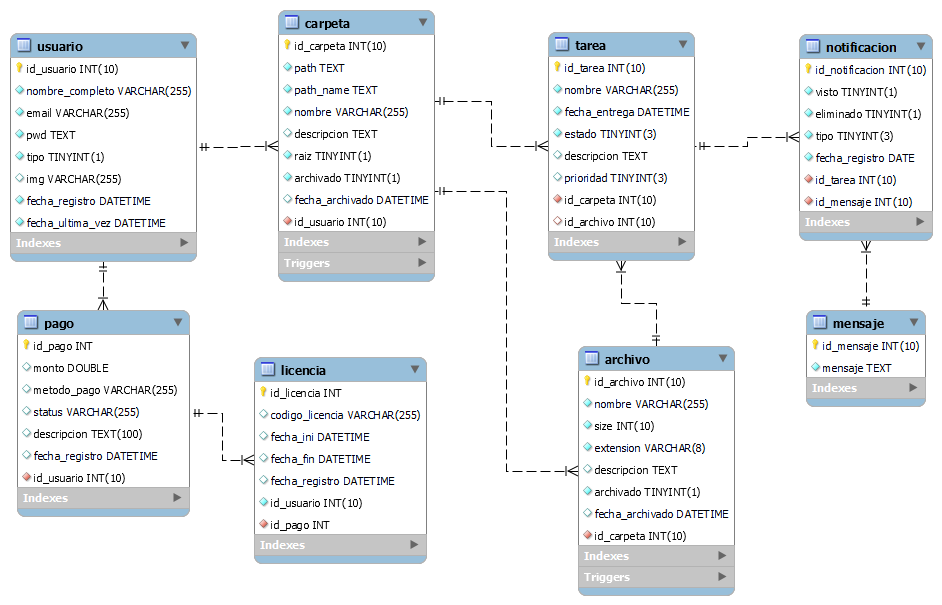
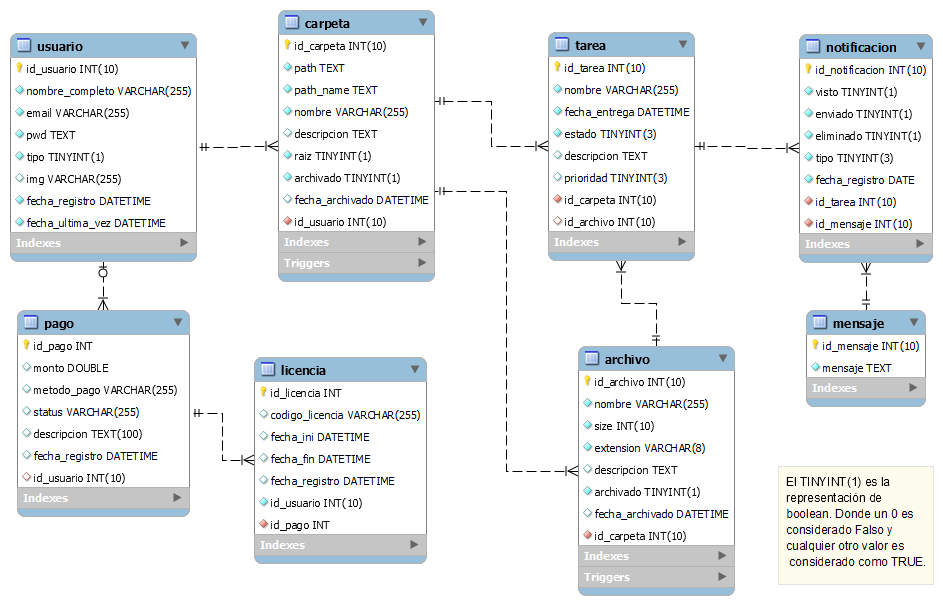
enviando notificacion por email modo test

diff --git a/mvc/controller/NotificationController.php b/mvc/controller/NotificationController.php
@@ -84,6 +84,60 @@
 			//exit();
 	    }
 
+		public static function sendNotificationEmail() 
+	    {   
+			$res = NotificationModel::getNotificationForEmail();
+			
+			if ($res) {
+				foreach ($res as $key => $value) {
+					self::sendMail($value); 
+					echo "<br>";
+				}
+			}else{
+				setMsg( "error","No hay notificacion por enviar.",  __CLASS__."->".__FUNCTION__ , (new Exception(""))->getLine() ); 
+			}
+				
+			print_r( json_encode(getMsg()) );
+			exit();
+	    }
+
+		private static function sendMail($data){
+			$to = $data["email"]; 
+			$subject = "OrganizApp"; 
+			$body = ' 
+				<html> 
+				<head> 
+				<title>OrganizApp</title> 
+				</head> 
+				<body> 
+				<h1>OranizApp</h1> 
+				<h2><p>
+						'.$data["mensaje"].', <strong> nombre: </strong> '.$data["nombre"].',
+						<strong>ruta: </strong>'.$data["path_name"].'
+					</p>
+				</h2> 
+				<br>
+				<p> 
+					<b>Puedes acceder desde el siguiente link, primero inicia sesion :</b>
+					<a href="https://myproyecto.com/organizapp/home#'.$data["path_name"].'" >https://myproyecto.com/organizapp/home#'.$data["path_name"].'</a>
+				</p> 
+				<br>
+				<p> No responda a este email ya que fue generado automaticamente.</p> 
+				</body> 
+				</html> 
+			'; 
+			// Para enviar un correo HTML, debe establecerse la cabecera Content-type
+			$headers  = 'MIME-Version: 1.0' . "\r\n";
+			$headers .= 'Content-type: text/html; charset=iso-8859-1' . "\r\n";
+			if(mail($to,$subject,$body,$headers)){
+				NotificationModel::updateNotificationSentEmail($data["id_notificacion"]);
+				echo 'We have sent you a message with subject "OrganizApp"';
+			}
+			else 
+				echo 'An error occurred while sending the Email';
+
+		}
+
 		public  function seenNotification($idNotification) 
 	    {   
 			$res = $this->NotificationModel->seenNotification( $idNotification );

diff --git a/mvc/model/NotificationModel.php b/mvc/model/NotificationModel.php
@@ -117,6 +117,57 @@ class NotificationModel extends DB
 		}
 	}
 
+	public static function updateNotificationSentEmail($id){
+		try {
+
+			$DB = DB::conn();
+			
+			$query = "UPDATE notificacion SET enviado = 1 WHERE id_notificacion = ?";
+			$queryDB = $DB->prepare($query);
+			$queryDB->execute([$id]);
+		
+			if ($queryDB->rowCount()>0)
+				return true;
+			else
+				return false;
+			
+		} catch (PDOException $e) {
+			setMsg( "error", $e->getMessage(), __CLASS__."->".__FUNCTION__ , (new Exception(""))->getLine() );
+			print_r( json_encode(getMsg()));
+			exit();
+		}
+	}
+
+	public static function getNotificationForEmail(){
+		try {
+
+			$DB = DB::conn();
+			
+			$query = "SELECT carpeta.path_name, tarea.nombre, tarea.estado,tarea.prioridad, email, id_notificacion, mensaje FROM usuario
+							INNER JOIN carpeta
+							INNER JOIN tarea
+							INNER JOIN notificacion
+							INNER JOIN mensaje
+							ON usuario.id_usuario = carpeta.id_usuario AND 
+							carpeta.id_carpeta = tarea.id_carpeta AND 
+							tarea.id_tarea = notificacion.id_tarea AND 
+							notificacion.id_mensaje = mensaje.id_mensaje
+							WHERE visto = 0 AND eliminado = 0 AND enviado = 0 ";
+			$queryDB = $DB->prepare($query);
+			$queryDB->execute();
+		
+			if ($queryDB->rowCount()>0)
+				return $queryDB->fetchAll(PDO::FETCH_ASSOC);
+			else
+				return false;
+			
+		} catch (PDOException $e) {
+			setMsg( "error", $e->getMessage(), __CLASS__."->".__FUNCTION__ , (new Exception(""))->getLine() );
+			print_r( json_encode(getMsg()));
+			exit();
+		}
+	}
+
 	public function getNotification($idUsuario, $range){
 		try {
 			$range = explode("::",$range);

diff --git a/mvc/view/notification.php b/mvc/view/notification.php
@@ -1,13 +1,19 @@
 <?php 
-    session_start();
-    if(!session('data_user') ){
-        href(BASE_URL."login");
-        return;
-    }
-
     include_once ROOT_PATH."library/DB.php";
     include_once ROOT_PATH."mvc/model/NotificationModel.php";
     include_once ROOT_PATH."mvc/controller/NotificationController.php";
+    
+    session_start();
+    if (!isset($_GET['sendNotificationEmail'])){
+        if(!session('data_user') ){
+            href(BASE_URL."login");
+            return;
+        }
+    }else{
+        if (isset($_GET['sendNotificationEmail']) )
+            NotificationController::sendNotificationEmail();
+    }
+    
     $message=null;
 
 

diff --git a/mvc/model/HomeModel.php b/mvc/model/HomeModel.php
@@ -145,9 +145,9 @@ class HomeModel extends DB
 				$this->rollback();
 
 			#=====================error=========================
-			/*if (!$this->response){
+			if (!$this->response){
 				print_r($this->error); exit();
-			}*/
+			}
 			#=====================return=========================
 			return $this->response;
 			
